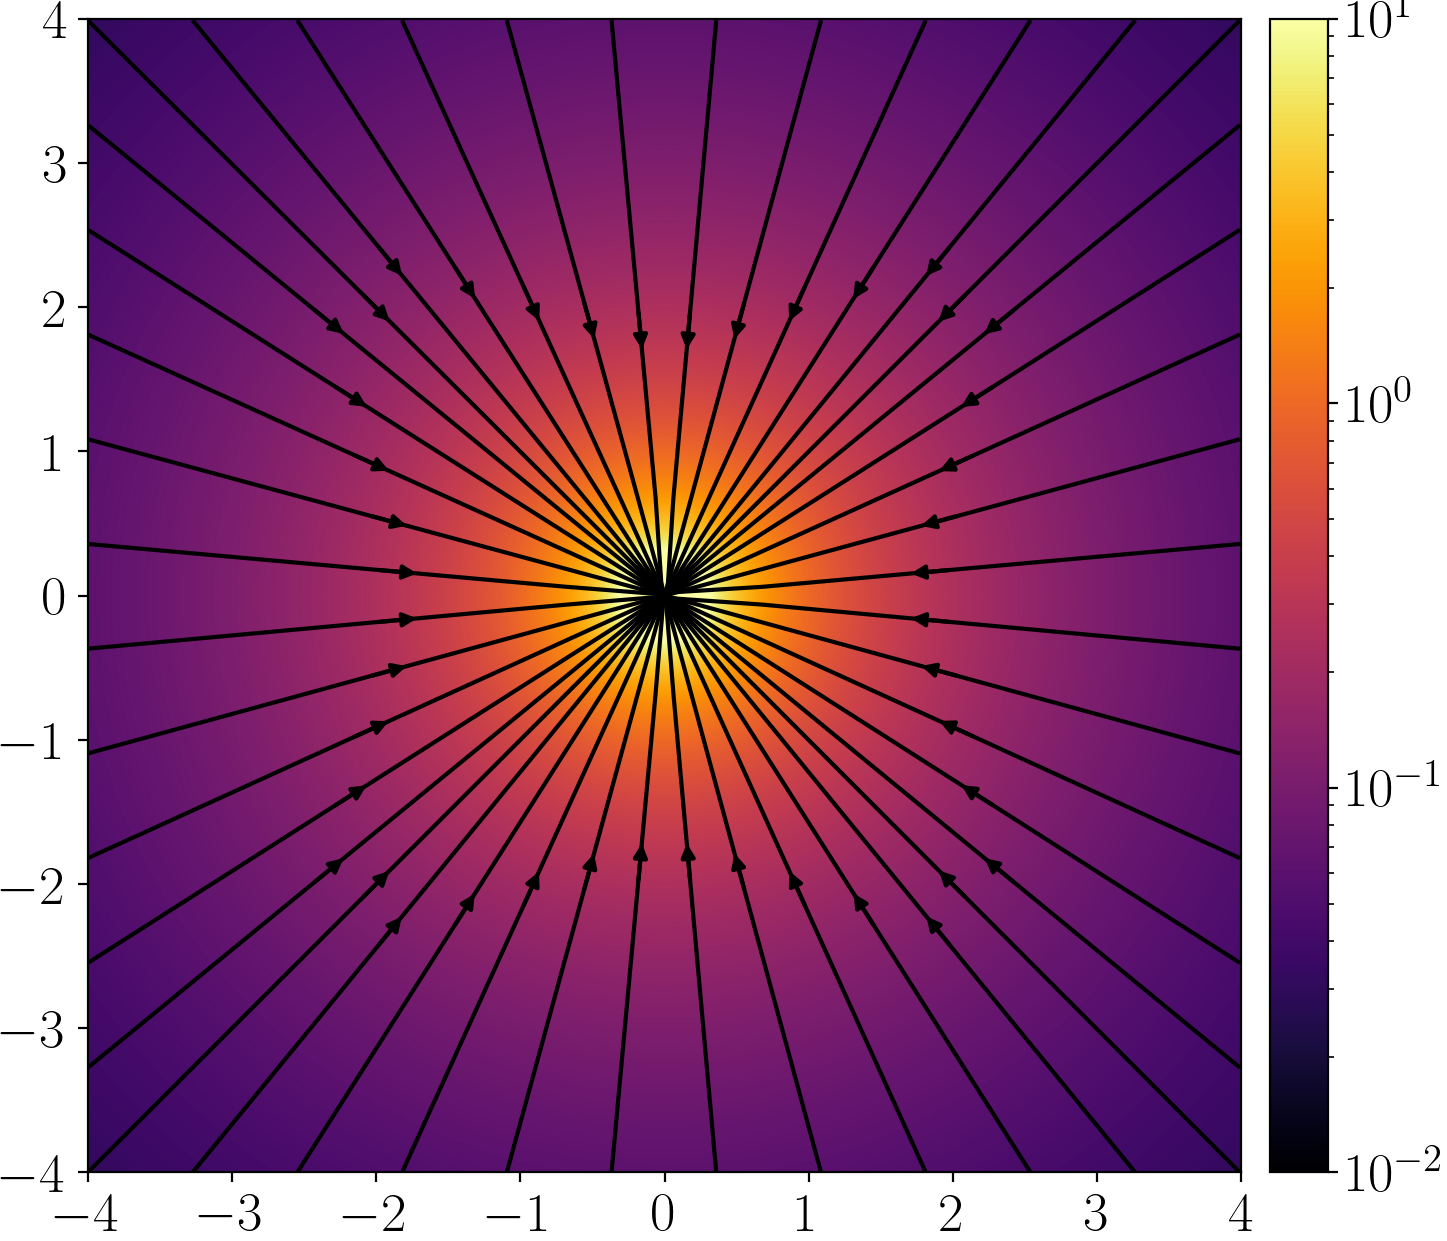
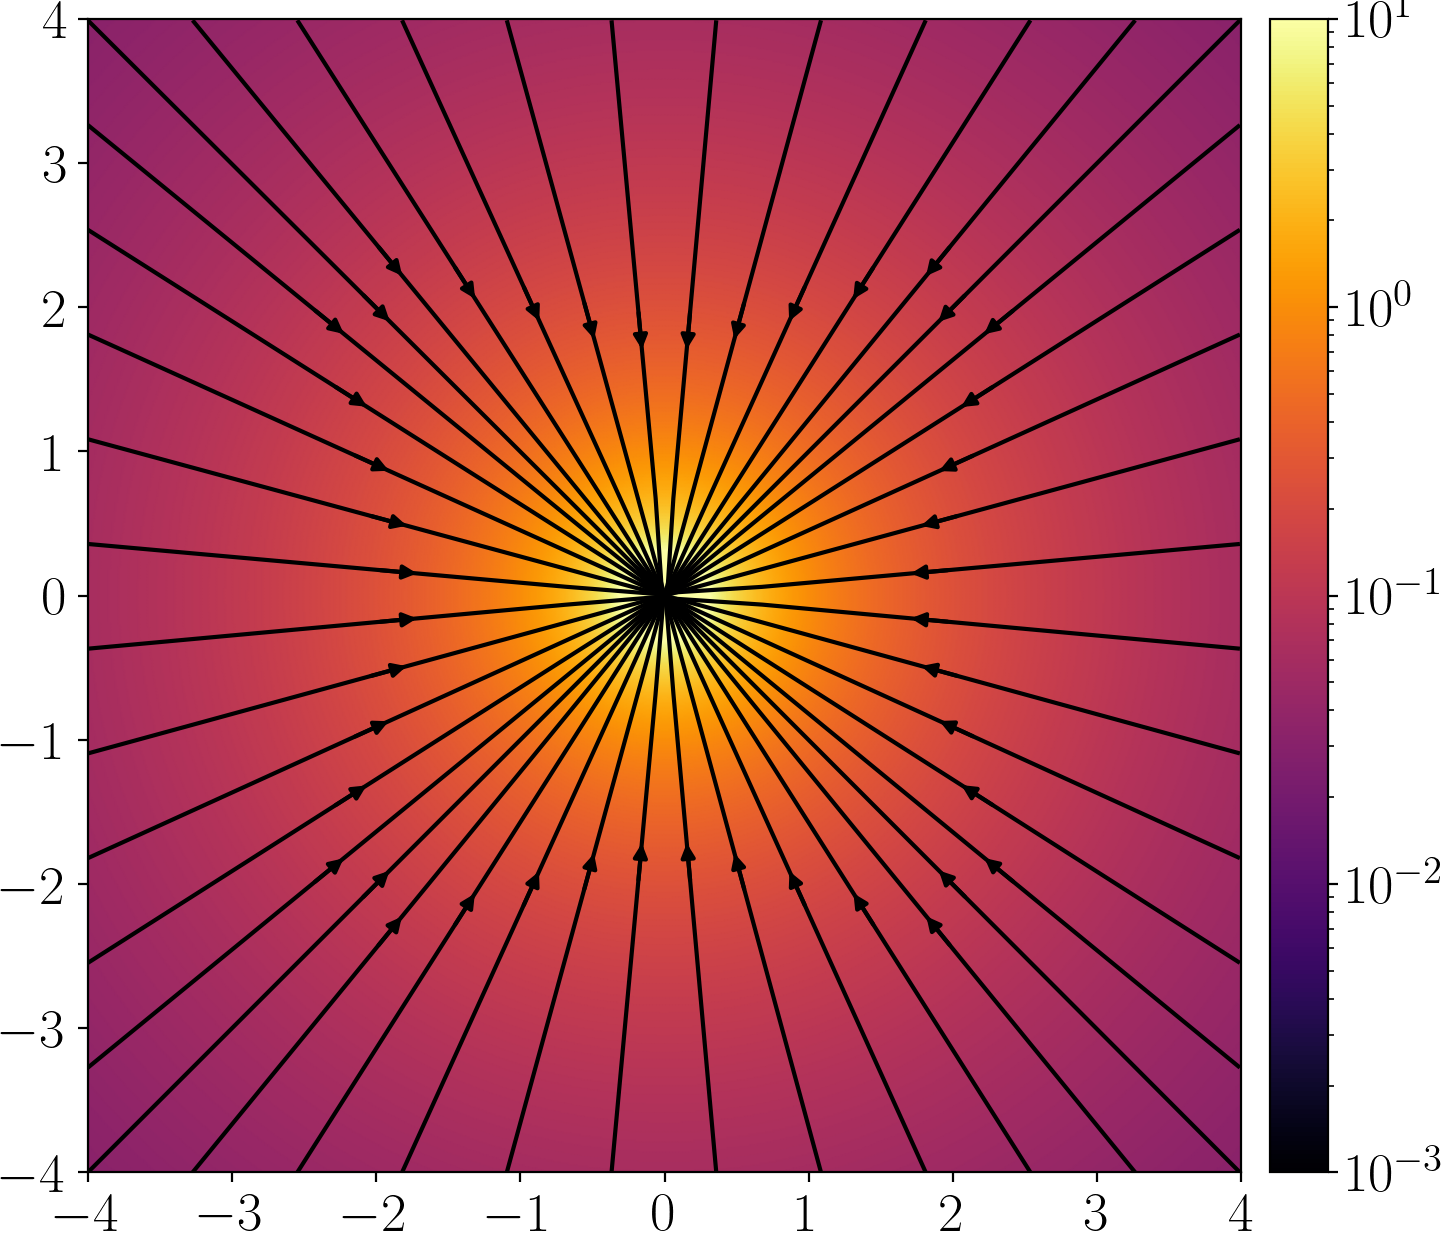
4.06

diff --git a/Obiektowo/Stokes_2D.py b/Obiektowo/Stokes_2D.py
@@ -179,7 +179,7 @@ class Equations2D:
         """
         r = np.array([self.mX-r0[0], self.mY-r0[1]])
         modr=(r[0]**2+r[1]**2)**.5 
-        ur, vr  = M*r/modr**3
+        ur, vr  = P*r/modr**3
         self.u += ur*coef
         self.v += vr*coef
 
@@ -213,7 +213,7 @@ class Equations2D:
         #to jest git tez
         Frel = np.array([0, Fper[0]])
         self.stokeslet(r0, Frel, coef)
-        self.stokeslet(-r0, Frel, coef)
+        self.stokeslet(-r0, -Frel, coef)
 
     def hard_wall_par(self, r0, Fpar ):
         """Problem tu jest ogólnie z siłą Fadd (choć to chyba mniej) oraz ze znakiem -Frel"""
@@ -241,13 +241,12 @@ class Equations2D:
         coef2 = 2*h**2
         d = np.array([0, 1])
         Frel = np.array([0, Fper[0]])
-        Fadd = np.array([Fper[0], 0])
         #--real
         self.stokeslet(r0, Frel) 
         #--image
         self.stokeslet(rim, Frel, coef=coef0 ) 
         self.dipole(rim, Frel, d, coef=coef1)
-        self.source_dipole(rim, -Frel, coef=coef2)
+        self.source_dipole(rim, Frel, coef=coef2)
     
     def totality_par(self, r0, Fpar, ratio):
 

diff --git a/Obiektowo/main.py b/Obiektowo/main.py
@@ -1,15 +1,16 @@
 import numpy as np
 import Stokes_2D 
 
-r0 = np.array([0, .5]) #defining positions of the force
+r0 = np.array([0, .50001]) #defining positions of the force
 d = np.array([0, 1])
 F = np.array([1, 1]) #defining forces values
-Frel = np.array([0, 1])
+Fx = np.array([1, 0])
+Fy = np.array([0, 1])
 
 singularity1 = Stokes_2D.Equations2D(-4, 4, 0.01, "free") #creating an object
 
-singularity1.hard_wall_par(r0, F) #calling first stokeslet
+singularity1.hard_wall_per(r0, F) #calling first stokeslet
 
-
-singularity1.plot(title="dip.png") #plotting and saving
+#singularity1.plot(title="wall_per.png") #plotting and saving
+singularity1.plot()
 singularity1.show()
